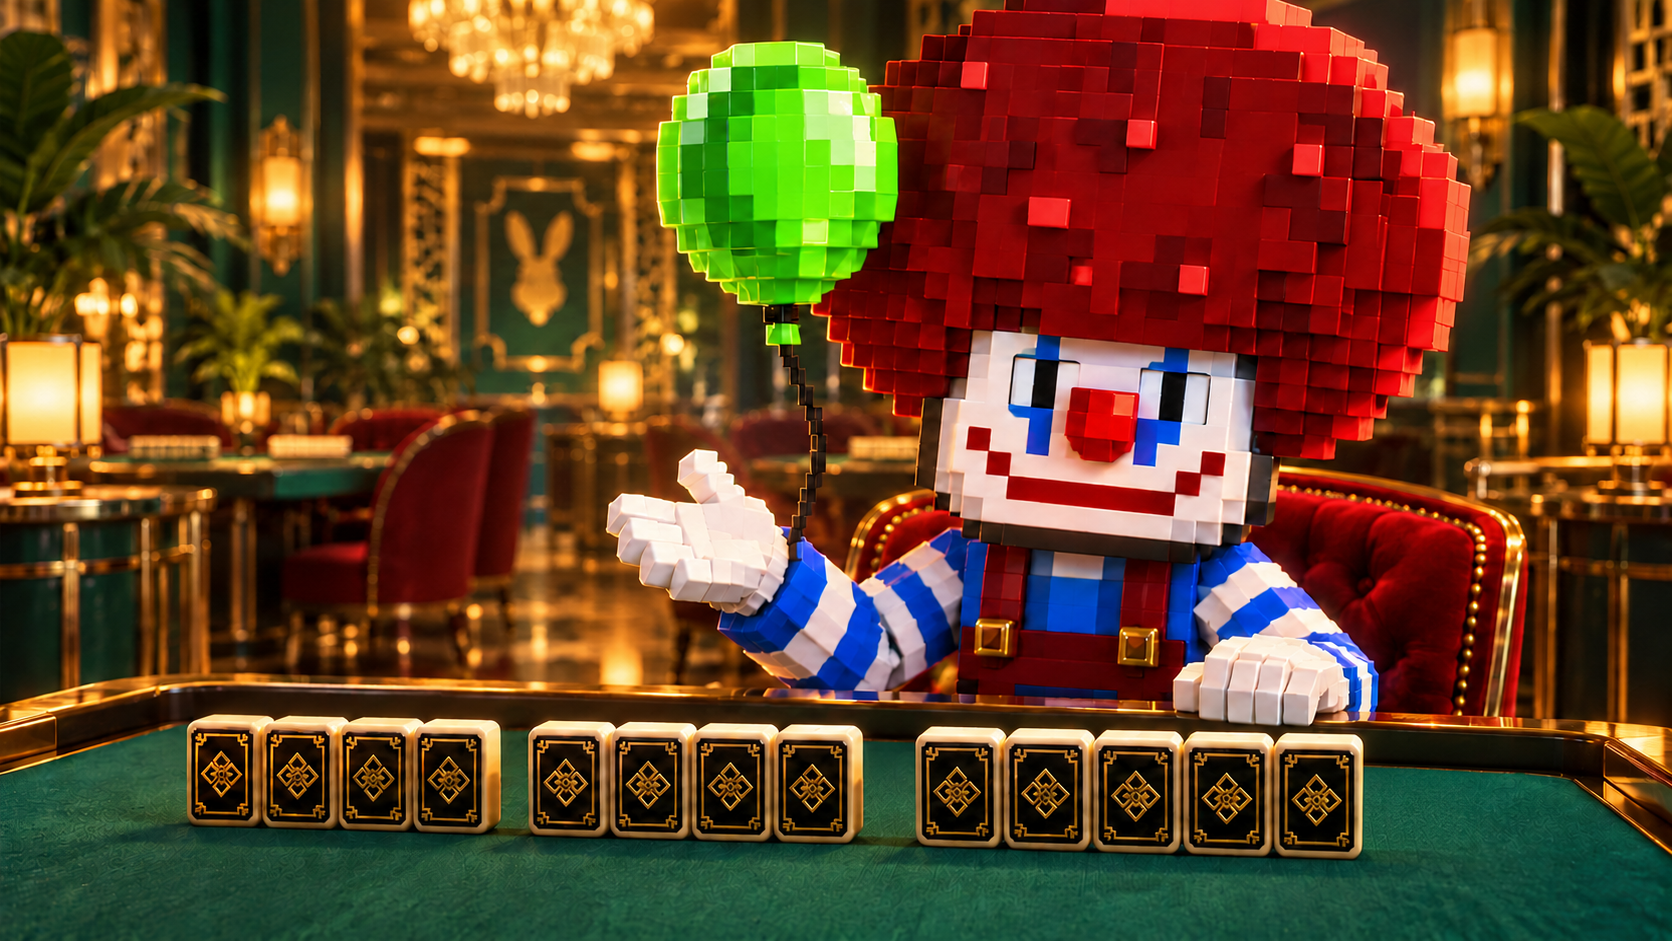
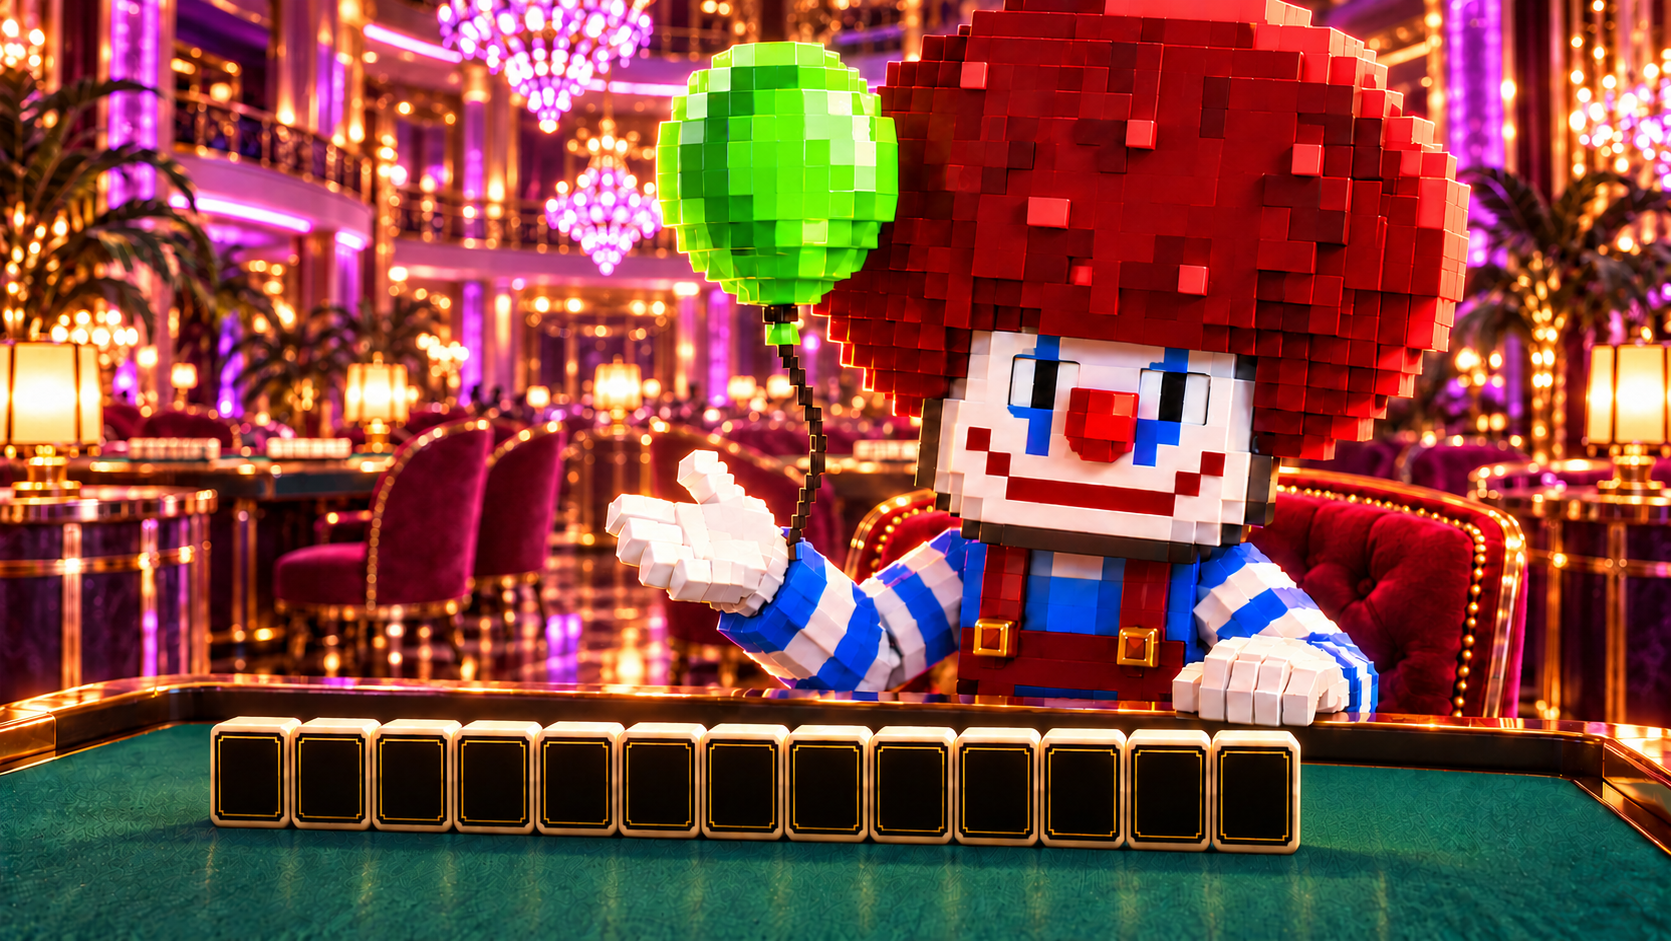
ART: purple-gold beginner room with thirteen contiguous unmarked tile backs

diff --git a/ART/room-tier-v1/README.md b/ART/room-tier-v1/README.md
@@ -6,7 +6,7 @@
 
 依使用者提供的像素小丑兔設計：紅色爆炸頭、白色臉、藍色眼妝、紅鼻與笑嘴、藍白條紋服裝、深紅吊帶及綠色氣球。轉化為 Bunny Warriors 的立體像素角色風格。
 
-場景使用溫暖、親切的翡翠黑金休息區，十三張厚身黑金牌背麻雀以4＋4＋5排列。此圖不內嵌場名、價格或UI，供中英文選桌卡片共用。
+場景使用紫金霓虹、水晶吊燈及奢華賭場氣氛，背景沒有兔子或其他品牌標誌。十三張厚身麻雀緊密排成一整列，不留分組空隙；黑色牌背只有簡潔金邊，沒有Logo或中央圖案。此圖不內嵌場名、價格或UI，供中英文選桌卡片共用。
 
 對應新手場入場設定1,000紅蘿蔔。此為插圖審閱版，尚未套用到公開版選桌卡片。
 
